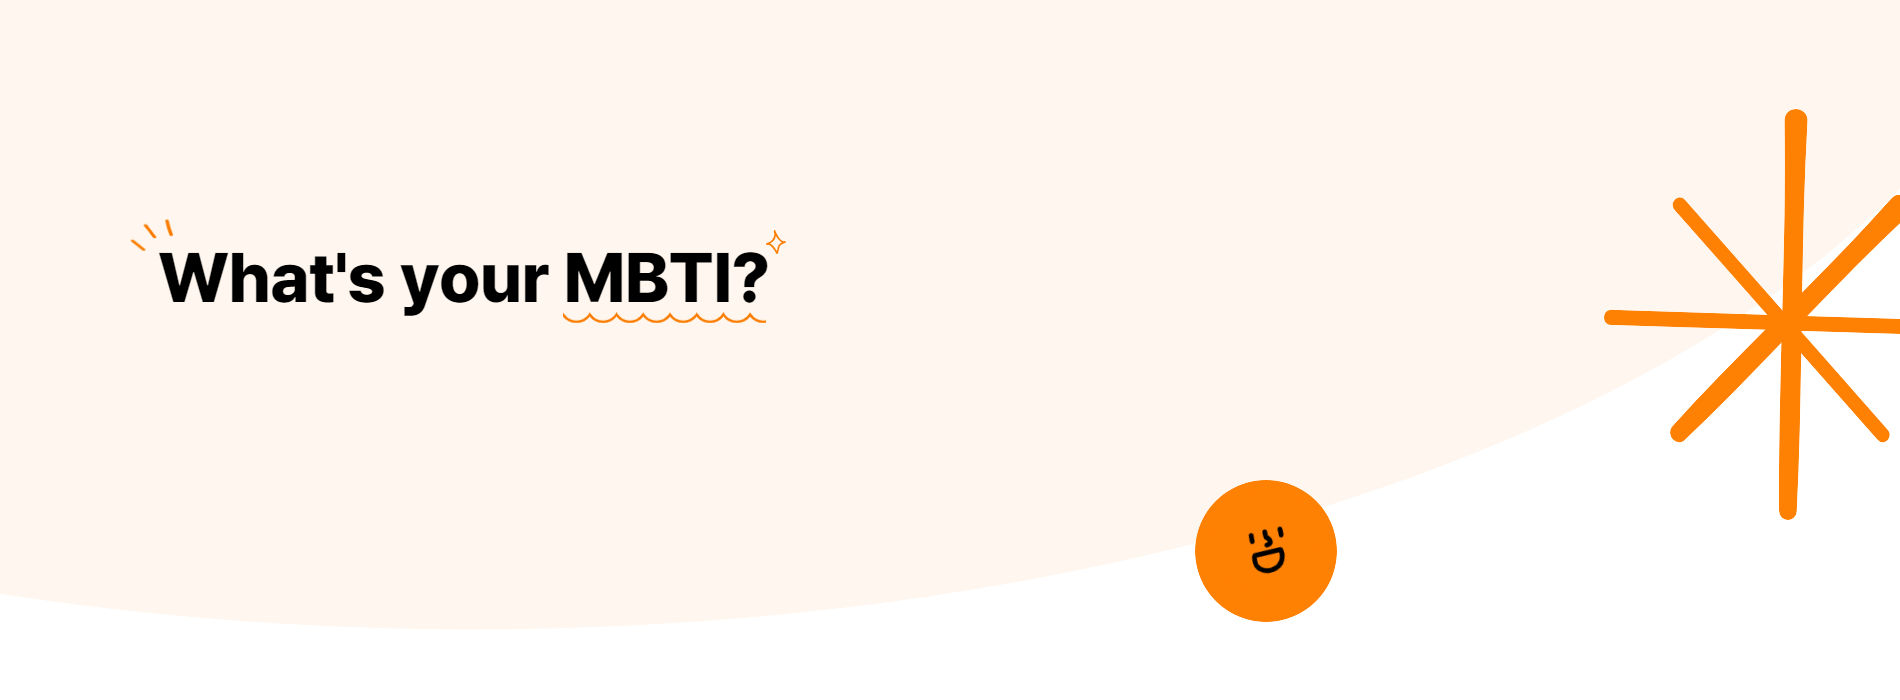
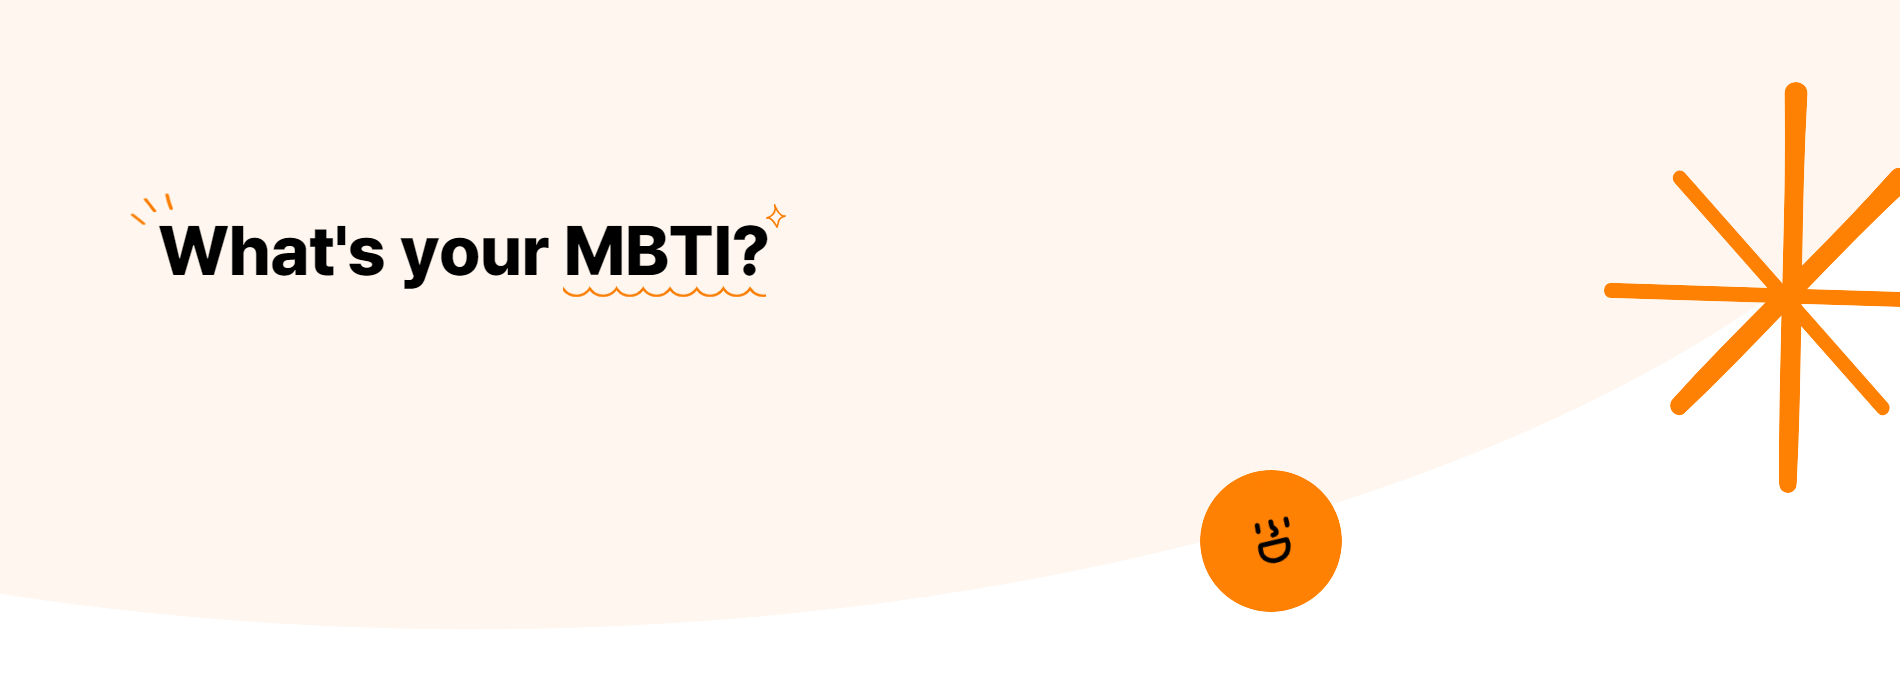
08-25-17:55

diff --git a/src/main/webapp/admin-css-js/css/education.css b/src/main/webapp/admin-css-js/css/education.css
@@ -19,15 +19,18 @@
 	height: 675px;
 }
 
+#edu-main-list, edu-main-schedule, edu-main-location {
+	font-family: "Pretendard";
+}
+
 #education-main pre {
     display: block;
     font-size: 140%;
     color: #3a3b45;
     padding-left: 158px;
     position: absolute;
-    top: 470px;
+    top: 420px;
     font-weight: bold;
-    font-family: "Pretendard";
 }
 
 
